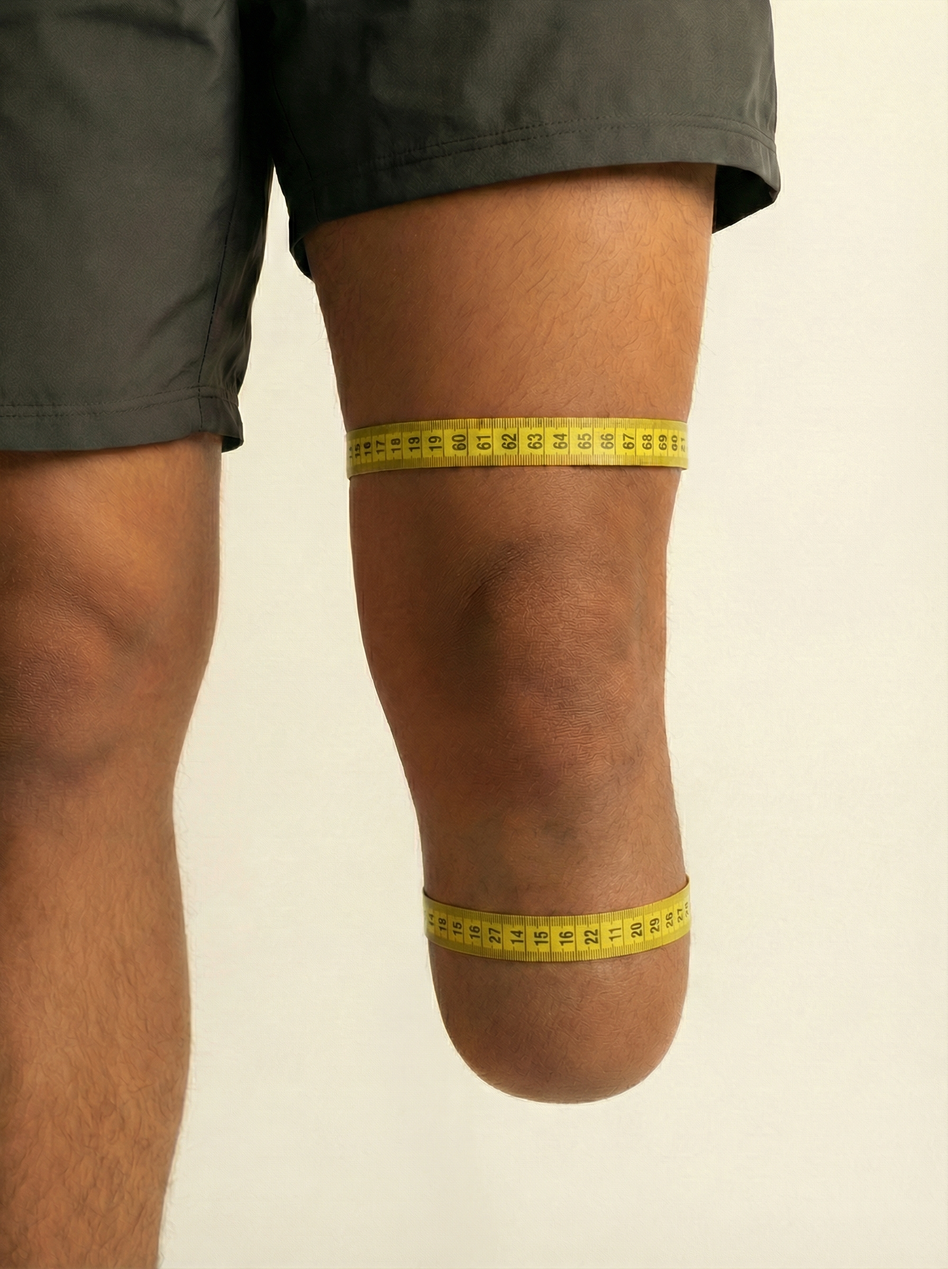
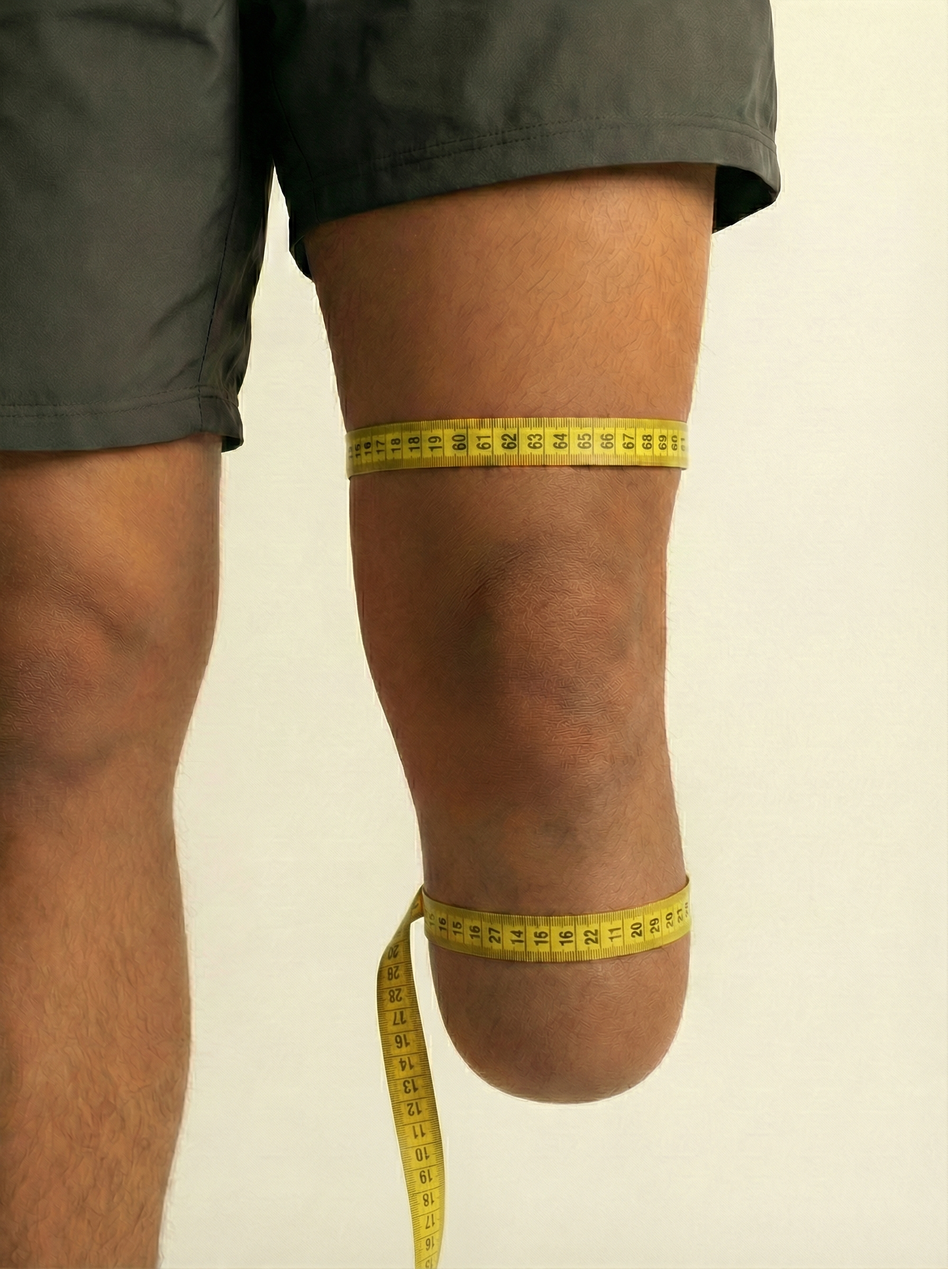
BK image: single wraps with natural trailing tape, fix callout positions
Distal tape now has natural draping end matching AK style while keeping
clear single-wrap measurement points. Adjusted BK callout overlays to
align with actual tape positions (proximal 29%, distal 63%).

Changed region(s): [[0.375, 0.6875, 0.4688, 1.0], [0.6562, 0.7188, 0.6875, 0.75]]

diff --git a/src/components/SizingGuide.jsx b/src/components/SizingGuide.jsx
@@ -147,8 +147,8 @@ function MeasurementHero({ chartData }) {
           { label: 'DISTAL', sublabel: '4 cm from end', top: 74 },
         ]
       : [
-          { label: 'PROXIMAL', sublabel: '30 cm from end', top: 30 },
-          { label: 'DISTAL', sublabel: '4 cm from end', top: 68 },
+          { label: 'PROXIMAL', sublabel: '30 cm from end', top: 29 },
+          { label: 'DISTAL', sublabel: '4 cm from end', top: 63 },
         ]
     : [
         { label: 'MEASURE HERE', sublabel: '6 cm from end', top: 48 },
